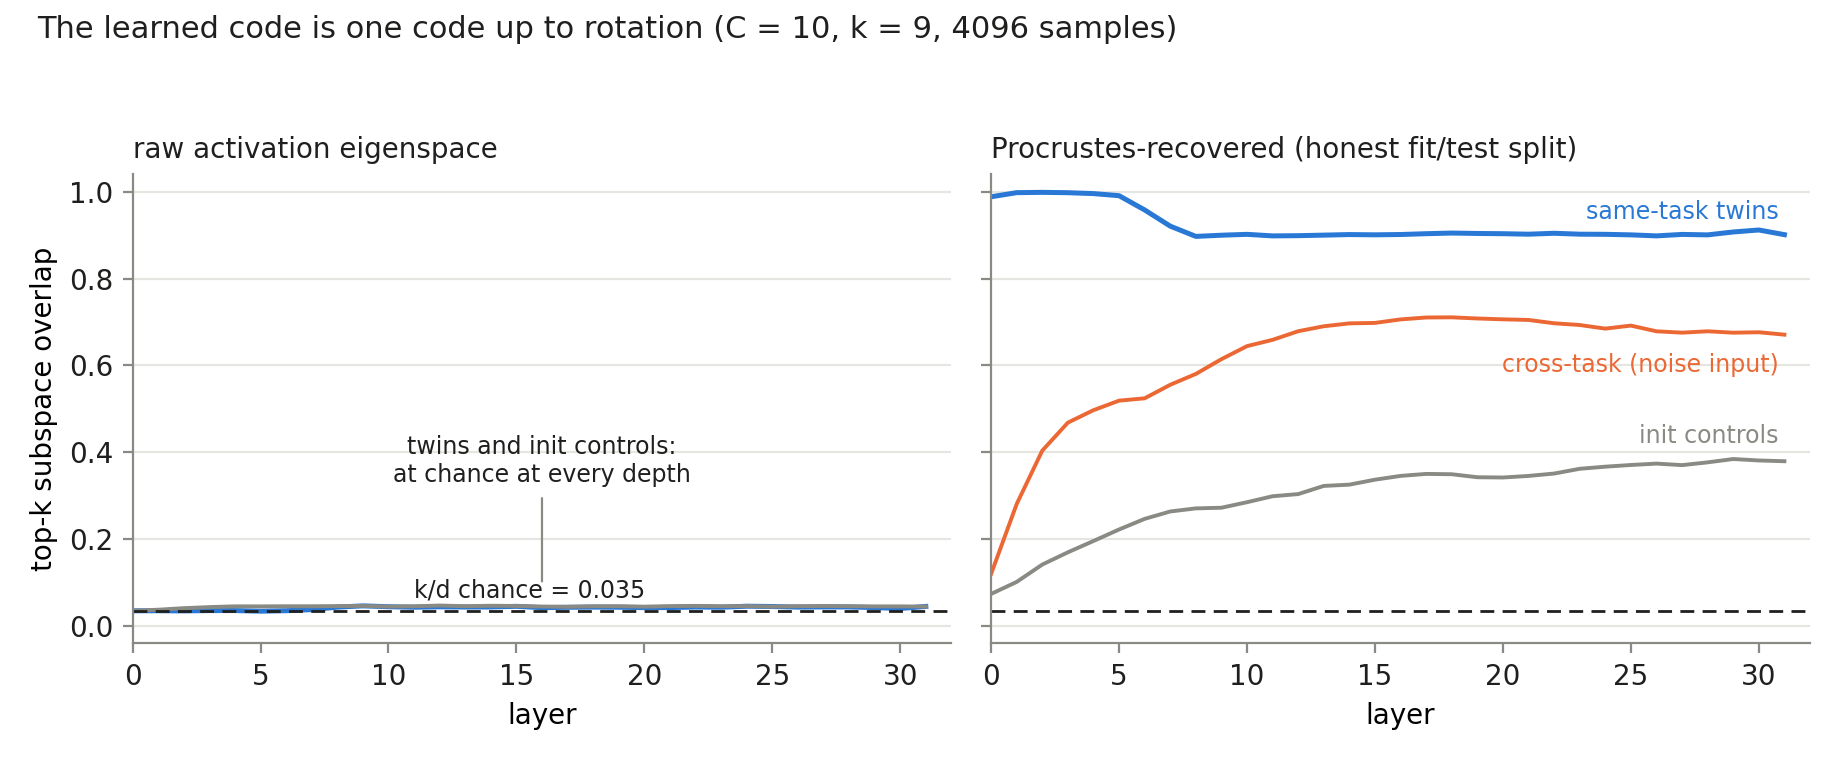
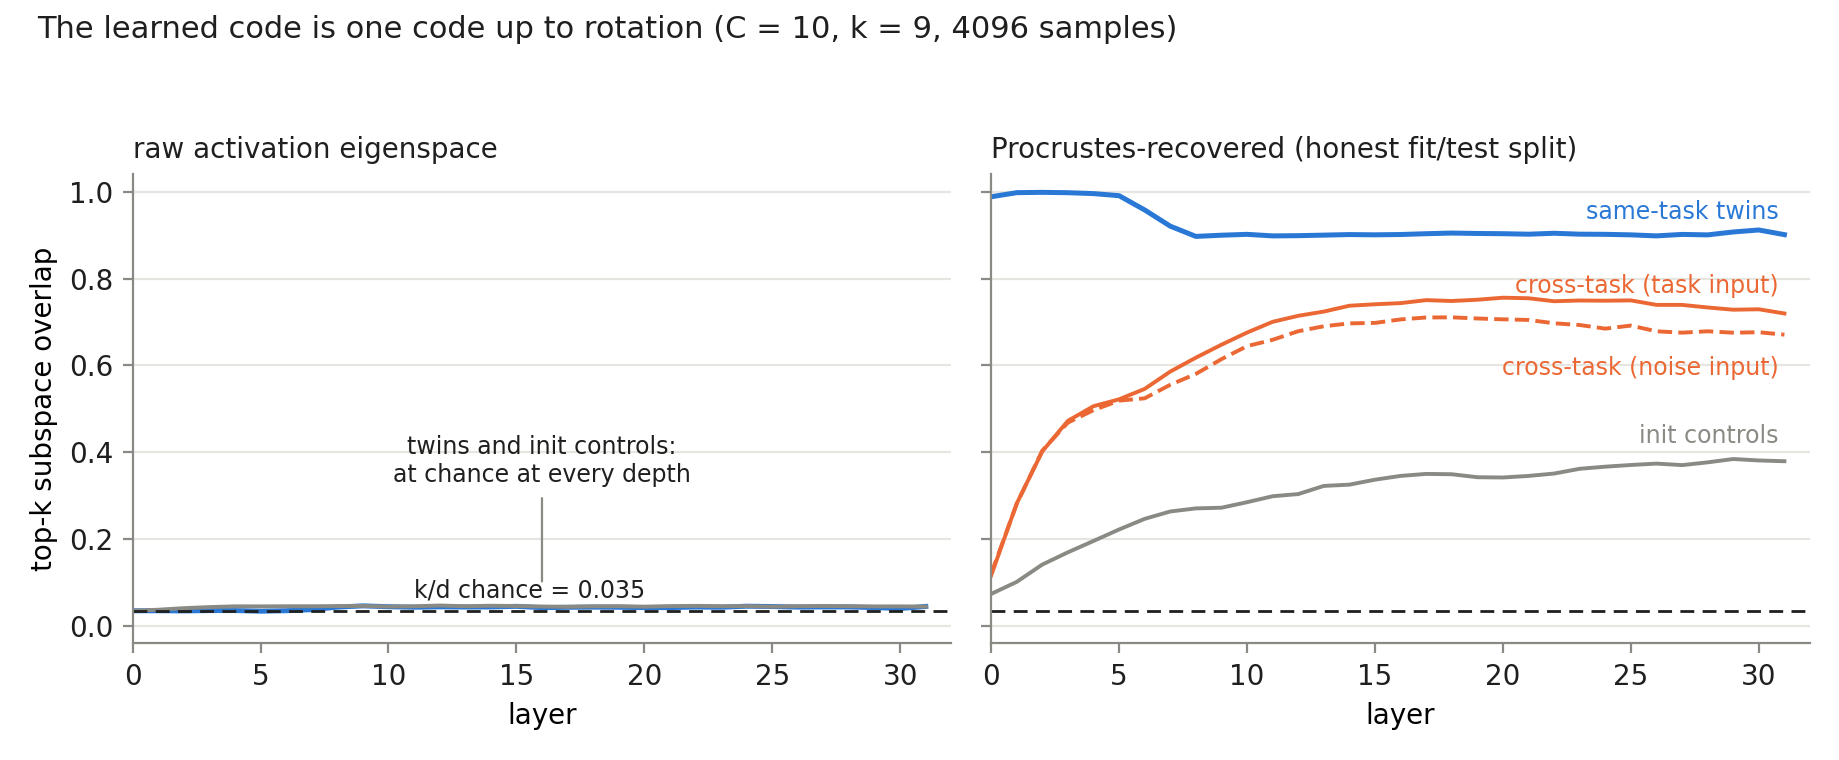
Draft v0.13: F5 resolved -- cross-task sharing is task-graded, not just training-dependent
The 2026-08-18 external-review hedge ("cross-task measured under noise
input, not input-matched with the twin condition -- a bound, not a clean
task-similarity grading") is resolved by the input-matched rerun (see
FINDINGS.md F5, commit d8ee0c1): deep-layer recovered overlap is *higher*
under a shared GMM-task input (0.74) than under noise (0.69), so the
original noise-input bound wasn't an artifact.

Corrected in place (strikethrough + resolution, matching this project's own
corrections-protocol discipline) in three places: SS4.4 prose, the Figure 4
caption, and both echoes in SS5.3/5.4's conclusion ("training-dependent" ->
"task-graded"). Figure 4 regenerated with both cross-task input conditions
shown, bracketing clearly between init controls and same-task twins.

diff --git a/paper/make_figures.py b/paper/make_figures.py
@@ -249,12 +249,13 @@ def fig4_rotation():
     a.set_xlim(0, 32)
     style(a)
 
-    conds = [("trained_twins", "same-task twins", BLUE, 8),
-             ("cross_task_noise", "cross-task (noise input)", ORANGE, -11),
-             ("init_twins", "init controls", MUTED, 9)]
-    for key, label, color, dy in conds:
+    conds = [("trained_twins", "same-task twins", BLUE, "-", 8),
+             ("cross_task_gmm_input", "cross-task (task input)", ORANGE, "-", 10),
+             ("cross_task_noise", "cross-task (noise input)", ORANGE, "--", -12),
+             ("init_twins", "init controls", MUTED, "-", 9)]
+    for key, label, color, ls, dy in conds:
         v = po["conditions"][key]
-        b.plot(L, v, color=color, lw=1.8 if key == "trained_twins" else 1.4)
+        b.plot(L, v, color=color, ls=ls, lw=1.8 if key == "trained_twins" else 1.4)
         b.annotate(label, (L[-1], v[-1]), xytext=(-2, dy),
                    textcoords="offset points", color=color, fontsize=8.5,
                    va="center", ha="right")

diff --git a/paper/DRAFT.md b/paper/DRAFT.md
@@ -1,10 +1,17 @@
 # Task rank is imprinted in the input layer: a controlled cartography of training signatures in deep MLPs
 
-*Draft v0.12 — 2026-08-18 20:05 UTC (v0.11–v0.3: 2026-08-18; v0.2: 2026-08-17; v0.1:
-2026-08-15). James Henry. Numbers reference FINDINGS.md (F1–F7) and the committed
-analysis JSONs; corpus at `james-ra-henry/MZC-Corpus` (public as of 2026-08-18).
-Archived: DOI 10.5281/zenodo.22017454 (concept; this v0.12 snapshot:
-10.5281/zenodo.22017455).
+*Draft v0.13 — 2026-09-07 15:05 UTC (v0.12: 2026-08-18 20:05 UTC; v0.11–v0.3:
+2026-08-18; v0.2: 2026-08-17; v0.1: 2026-08-15). James Henry. Numbers reference
+FINDINGS.md (F1–F7) and the committed analysis JSONs; corpus at
+`james-ra-henry/MZC-Corpus` (public as of 2026-08-18). Archived: DOI
+10.5281/zenodo.22017454 (concept; the v0.12 snapshot is 10.5281/zenodo.22017455).
+v0.13: F5's cross-task condition reran input-matched (GMM-task input, not just
+noise) — deep-layer recovered overlap is *higher* under task input (0.74) than
+noise (0.69), confirming the original result wasn't a noise-input artifact.
+§4.4, its Figure 4 caption, and §5.3/§5.4's echoes of the hedge are corrected
+in place (strikethrough + resolution): "training-dependent" reverts to
+"task-graded." Figure 4 regenerated with both cross-task input conditions
+shown. See `FINDINGS.md` F5 and `census/procrustes_overlap.py`.
 v0.12: scope restructure per external (human) review — one thesis (stated in §1 and
 §5.1), rotation-hiding and population-corrections reframed as its two boundaries, the
 lens named once in the abstract and once in §5.1, §5.3+5.4 merged under an Implications
@@ -314,24 +321,29 @@ structure is "less collapsed than init," not "spikier than init."*
 Same-task twins: L0 input-coordinate subspaces overlap 0.86–0.93 (init
 controls exactly at isotropic chance); raw hidden-space eigenbases at or near
 k/d chance at every depth; Procrustes-recovered overlap 0.99 early / 0.90
-deep for twins against 0.38 for init controls; a cross-task condition reads
+deep for twins against 0.38 for init controls; ~~a cross-task condition reads
 0.67, but it was measured under noise input rather than task input, so it is
 not input-matched with the twin condition — a bound, not a clean
-task-similarity grading. Chain-level
+task-similarity grading.~~ **Resolved:** rerun under a shared GMM-task input
+(matching the twin conditions' input type) gives 0.74 deep — *higher* than
+the 0.69 measured under noise, not lower, so the original bound was not a
+noise-input artifact. Both cross-task readings sit clearly between init
+(0.38) and twins (0.90) at every depth: a clean task-similarity grading.
+Chain-level
 feature tracking fails in plain MLPs under both raw and linearly-transported
 matching — continuity of the code is recoverable only through data-fitted
 rotations. Consequence for representational-convergence claims: convergence
-is real, rotation-hidden, and training-dependent (twins ≫ init controls); an
-input-matched cross-task rerun is needed before calling it task-graded.
-Metrics must be rotation-invariant or input-anchored.
+is real, rotation-hidden, and task-graded (twins ≫ cross-task ≫ init
+controls). Metrics must be rotation-invariant or input-anchored.
 
 ![Fig 4 — rotation-hidden code](figures/fig4_rotation_hidden.png)
 *Figure 4. The same nets, two views. Left: raw activation-eigenspace overlap
 between same-task twins is indistinguishable from init controls and from k/d
 chance at every depth. Right: a fitted orthogonal Procrustes map (honest
 fit/test split) recovers 0.99 early / 0.90 deep for twins against 0.38 for
-init controls. The cross-task series (0.67) was measured under noise input
-and is not input-matched with the twin condition.*
+init controls. Two cross-task series bracket the middle: 0.69 deep under
+noise input and 0.74 deep under a shared GMM-task input — input-matched is
+higher, confirming the grading is task-similarity, not input type.*
 
 ### 4.5 The class-count wall: pre-registered, falsified, then resolved as a logarithmic compute frontier
 Terms: C₅₀ is the class count at which half the seeds converge; the
@@ -534,7 +546,7 @@ alone, but amplitude is not learning (§4.6) — an auditor that scores spectral
 mass measures optimizer hygiene, and the structure measure must switch from
 MP counts to rank metrics once the bulk is depleted. For the
 representational-convergence literature: convergence across same-task models
-is real, training-dependent, and strictly rotation-hidden (§4.4) — cross-model
+is real, task-graded, and strictly rotation-hidden (§4.4) — cross-model
 comparisons made in raw coordinates at depth measure nothing, and metrics
 must be rotation-invariant or input-anchored to see the shared code at all.
 Whether models in the wild show the same signature — chance-exact raw
@@ -616,7 +628,7 @@ at chance (exact at shallow layers; a small depth elevation is shared by
 init controls, so it is not training signal), while a fitted rotation
 recovers 0.90–0.99
 for twins against 0.38 for init controls — convergence is real, strictly
-rotation-hidden, and training-dependent. Anchor-based "relative representations" [Moschella et al. 2023]
+rotation-hidden, and task-graded. Anchor-based "relative representations" [Moschella et al. 2023]
 operationalize the same prescription from the engineering side: comparisons
 made relative to fixed anchor samples are invariant to latent isometries,
 which is §4.4's input-anchored reading as a design principle.
